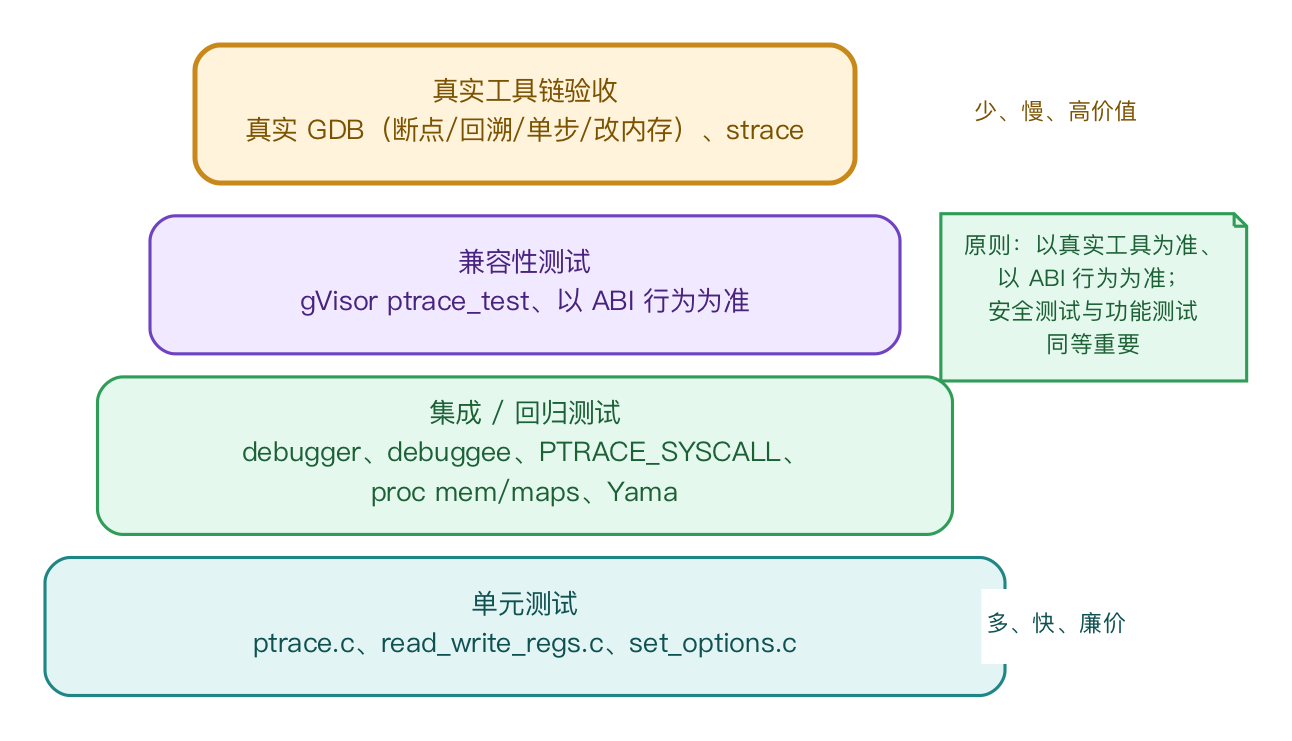
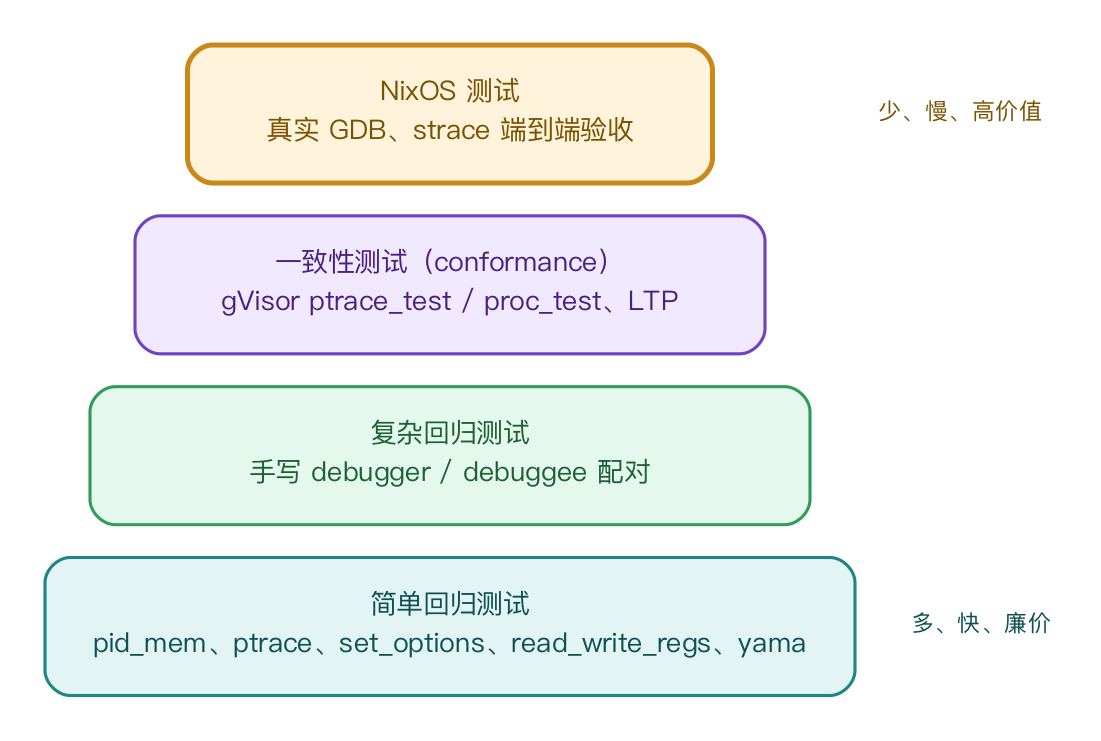
搞好了！

diff --git a/research_practice/gen_diagrams.py b/research_practice/gen_diagrams.py
@@ -349,8 +349,8 @@ render("08_register_abi", dot8, engine="neato", extra_args=["-n1"])
 # 9. 断点闭环（环形流程）
 # =====================================================================
 # 4×4 蛇形网格：固定坐标对齐；tracee 块=绿(core)，tracer 块=黄(user)
-COL = [0, 235, 470, 705]
-R1, R2, R3, R4 = 360, 240, 120, 0
+COL = [0, 200, 400, 600]
+R1, R2, R3, R4 = 300, 200, 100, 0
 T="core"; U="user"
 cells = [
   ("b1", "命中 #BP\\n→ SIGTRAP",            T, COL[0], R1),
@@ -371,19 +371,24 @@ cells = [
   ("b16","tracee 再次\\n走到断点",            T, COL[0], R4),
 ]
 b = ""
+# 两个阶段底框（先声明，置于底层）
+b += '  bandA [label="", shape=box, style="rounded,filled", fillcolor="#EFF4FC", color="#9DB8DD", penwidth=1.4, fixedsize=true, width="10.7", height="2.55", pos="300,252"];\n'
+b += '  bandB [label="", shape=box, style="rounded,filled", fillcolor="#F4EFFB", color="#C3ABE0", penwidth=1.4, fixedsize=true, width="10.7", height="2.55", pos="300,52"];\n'
+b += f'  ptitleA [shape=plaintext, style="filled", fillcolor="#EFF4FC", fontname="{FONT}", fontcolor="#1d3a66", fontsize="12", label="阶段一　命中断点，回退一步并准备单步", pos="300,252"];\n'
+b += f'  ptitleB [shape=plaintext, style="filled", fillcolor="#F4EFFB", fontname="{FONT}", fontcolor="#48227f", fontsize="12", label="阶段二　单步越过原指令后，恢复断点", pos="300,52"];\n'
 for nid,lab,kind,x,y in cells:
-    b += node(nid,lab,kind,pos=f"{x},{y}",width="2.1",height="0.62",fixedsize="true")
-# 一次性设置断点（外接在循环之前，竖直进入 命中 #BP）；均为 tracer 操作
-b += node("s1","maps 定位代码映射","user",pos="0,590",width="2.1",height="0.6",fixedsize="true")
-b += node("s2","PEEKTEXT 读原指令","user",pos="0,510",width="2.1",height="0.6",fixedsize="true")
-b += node("s3","POKETEXT 写 int3","user",pos="0,440",width="2.1",height="0.6",fixedsize="true")
-b += tlabel("s_hdr","设置断点（一次性）","0,640",color="#7a5200")
+    b += node(nid,lab,kind,pos=f"{x},{y}",width="1.85",height="0.56",fixedsize="true")
+# 一次性设置断点（横排在顶部，自右向左汇入 命中 #BP）；均为 tracer 操作
+b += node("s1","maps 定位代码映射","user",pos="400,392",width="1.85",height="0.52",fixedsize="true")
+b += node("s2","PEEKTEXT 读原指令","user",pos="200,392",width="1.85",height="0.52",fixedsize="true")
+b += node("s3","POKETEXT 写 int3","user",pos="0,392",width="1.85",height="0.52",fixedsize="true")
+b += tlabel("s_hdr","设置断点（一次性）","200,432",color="#7a5200")
 # 图例
-b += node("leg_t","tracee（被调试程序）执行","core",pos="705,585",width="2.6",height="0.44",fixedsize="true",fontsize="11")
-b += node("leg_r","tracer（调试器）操作","user",pos="705,520",width="2.6",height="0.44",fixedsize="true",fontsize="11")
+b += node("leg_t","tracee（被调试程序）执行","core",pos="600,410",width="2.4",height="0.42",fixedsize="true",fontsize="11")
+b += node("leg_r","tracer（调试器）操作","user",pos="600,368",width="2.4",height="0.42",fixedsize="true",fontsize="11")
 # 设置断点链 -> 进入循环
-b += '  s1:s -> s2:n [color="#5b6b7d"];\n'
-b += '  s2:s -> s3:n [color="#5b6b7d"];\n'
+b += '  s1:w -> s2:e [color="#5b6b7d"];\n'
+b += '  s2:w -> s3:e [color="#5b6b7d"];\n'
 b += '  s3:s -> b1:n [color="#5b6b7d"];\n'
 # 顺序流（灰，蛇形）
 seq_edges = [
@@ -398,16 +403,16 @@ seq_edges = [
 for a,c in seq_edges:
     b += f'  {a} -> {c} [color="#5b6b7d"];\n'
 # 回到开头（红实线，走最左侧竖线）
-b += '  lb1 [shape=point, width=0.01, style=invis, pos="-130,0"];\n'
-b += '  lb2 [shape=point, width=0.01, style=invis, pos="-130,360"];\n'
+b += '  lb1 [shape=point, width=0.01, style=invis, pos="-115,0"];\n'
+b += '  lb2 [shape=point, width=0.01, style=invis, pos="-115,300"];\n'
 b += '  b16:w -> lb1 [arrowhead=none, color="#C0463F"];\n'
 b += '  lb1 -> lb2 [arrowhead=none, color="#C0463F"];\n'
 b += '  lb2 -> b1:w [color="#C0463F"];\n'
-b += tlabel("fb","再次命中","-130,185",color="#C0463F")
+b += tlabel("fb","再次命中","-115,152",color="#C0463F")
 
 dot9 = ('digraph G {\n'
   f'  graph [fontname="{FONT}", bgcolor="white", pad="0.3", splines=true];\n'
-  f'  node [fontname="{FONT}", shape=box, style="rounded,filled", penwidth=1.5, margin="0.1,0.06", fontsize=12];\n'
+  f'  node [fontname="{FONT}", shape=box, style="rounded,filled", penwidth=1.5, margin="0.1,0.06", fontsize=11];\n'
   f'  edge [fontname="{FONT}", color="#5b6b7d", penwidth=1.4, arrowsize=0.85, fontsize=11];\n'
   + b + '}\n')
 render("09_breakpoint_loop", dot9, engine="neato", extra_args=["-n1"])
@@ -417,9 +422,9 @@ render("09_breakpoint_loop", dot9, engine="neato", extra_args=["-n1"])
 # =====================================================================
 b  = '  node [margin="0.1,0.035"];\n'
 b += node("req", "调试请求\\nptrace attach / proc mem", "user")
-b += node("same", "同进程？", "ink", shape="diamond", style="filled")
-b += node("ugid", "UID/GID 匹配？\\n(Fs 或 Real creds)", "sec", shape="diamond", style="filled")
-b += node("cap", "具备 CAP_SYS_PTRACE？", "sec", shape="diamond", style="filled")
+b += node("same", "同进程？", "ink")
+b += node("ugid", "UID/GID 匹配？\\n(Fs 或 Real creds)", "sec")
+b += node("cap", "具备 CAP_SYS_PTRACE？", "sec")
 b += node("yama", "Yama LSM hook", "sec")
 b += node("allow", "放行", "core")
 b += node("deny", "拒绝 EPERM/EACCES", "mem")
@@ -501,20 +506,17 @@ render("11_timeline", dot11, engine="neato", extra_args=["-n1"])
 # 12. 测试与验证金字塔
 # =====================================================================
 b=""
-b+=node("apex","真实工具链验收\\n真实 GDB（断点/回溯/单步/改内存）、strace","user",
-        pos="0,246", width="4.4", height="0.92", fixedsize="true", penwidth="2.4")
-b+=node("t3","兼容性测试\\ngVisor ptrace_test、以 ABI 行为为准","sec",
-        pos="0,164", width="5.0", height="0.92", fixedsize="true")
-b+=node("t2","集成 / 回归测试\\ndebugger、debuggee、PTRACE_SYSCALL、\\nproc mem/maps、Yama","core",
-        pos="0,82", width="5.7", height="1.05", fixedsize="true")
-b+=node("base","单元测试\\nptrace.c、read_write_regs.c、set_options.c","proc",
-        pos="0,0", width="6.4", height="0.92", fixedsize="true")
+b+=node("apex","NixOS 测试\\n真实 GDB、strace 端到端验收","user",
+        pos="0,246", width="3.5", height="0.92", fixedsize="true", penwidth="2.4")
+b+=node("t3","一致性测试（conformance）\\ngVisor ptrace_test / proc_test、LTP","sec",
+        pos="0,164", width="4.2", height="0.92", fixedsize="true")
+b+=node("t2","复杂回归测试\\n手写 debugger / debuggee 配对","core",
+        pos="0,82", width="4.8", height="0.92", fixedsize="true")
+b+=node("base","简单回归测试\\npid_mem、ptrace、set_options、read_write_regs、yama","proc",
+        pos="0,0", width="5.4", height="0.92", fixedsize="true")
 
 # right column: note (beside narrow tier), annotations near apex/base
-b+=tlabel("ann_top","少、慢、高价值", "255,246", "#7a5200")
-b+=('  note1 [shape=note, style="filled", fillcolor="#E5F8EE", color="#2F9D57", '
-    'fontsize=11, fontcolor="#1c6035", pos="273,158", '
-    'label="原则：以真实工具为准、\\n以 ABI 行为为准；\\n安全测试与功能测试\\n同等重要"];\n')
+b+=tlabel("ann_top","少、慢、高价值", "245,246", "#7a5200")
 b+=tlabel("ann_bot","多、快、廉价", "255,0", "#0f5151")
 
 dot12 = ('digraph G {\n'
